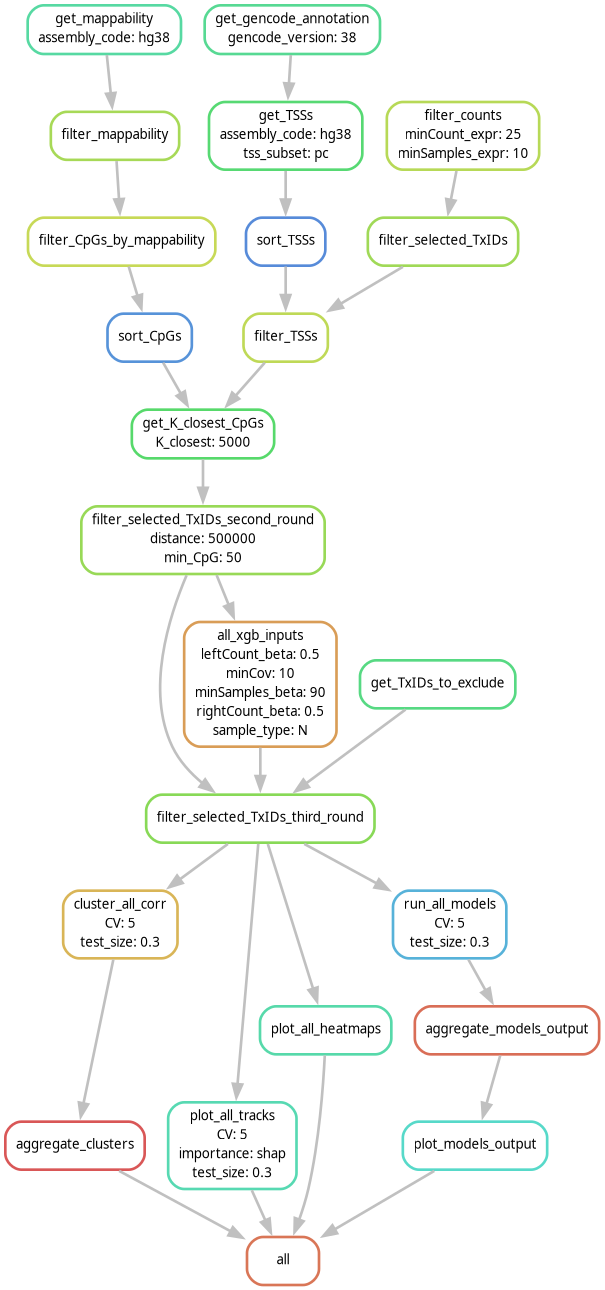
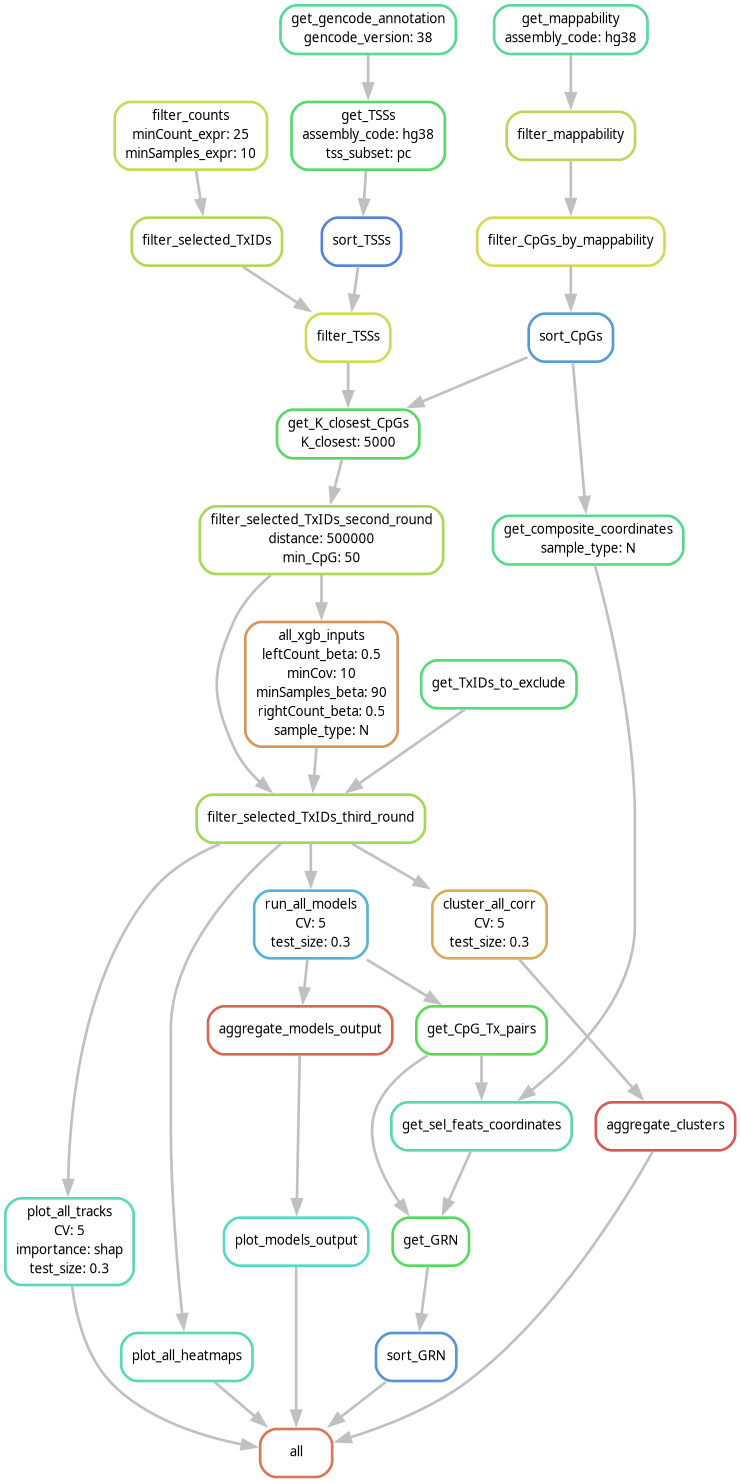
downstream rules

diff --git a/workflow/scripts/get_CpG_Tx_pairs.py b/workflow/scripts/get_CpG_Tx_pairs.py
@@ -1,0 +1,34 @@
+import os
+import argparse
+
+parser = argparse.ArgumentParser()
+parser.add_argument('--input_dir_selected_CpGs', dest='input_dir_selected_CpGs', type=int, help='Add input_dir_selected_CpGs')
+parser.add_argument('--output_path_pairs', dest='output_path_pairs', type=int, help='Add output_path_pairs')
+
+args = parser.parse_args()
+
+# load all files of selected features
+selectedfol = args.input_dir_selected_CpGs
+allfiles = os.listdir(selectedfol)
+
+# take genes from last chunk of file name
+genes = [x.split("_")[15] for x in allfiles]
+
+cpgbygenetable = list() # empty list
+
+
+# use idx of files list 
+# loop over each file and each line
+# paste gene name after selected feature
+
+for idx in range(len(allfiles)):
+	file = allfiles[idx]
+	gene = genes[idx]
+	with open(selectedfol+"/"+file,"r") as f:
+		lines=f.readlines()
+		for line in lines:
+			line = line.strip()
+			cpgbygenetable.append(line+"\t"+gene+"\n")
+
+with open(args.output_path_pairs, "w") as f:
+	f.writelines(cpgbygenetable)
